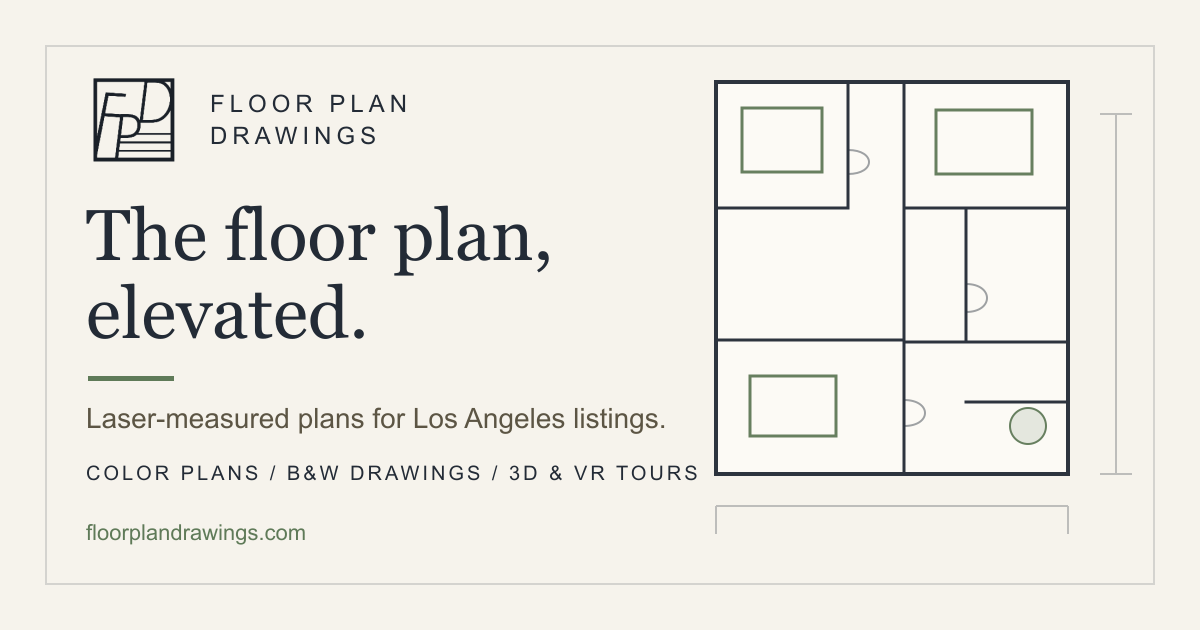
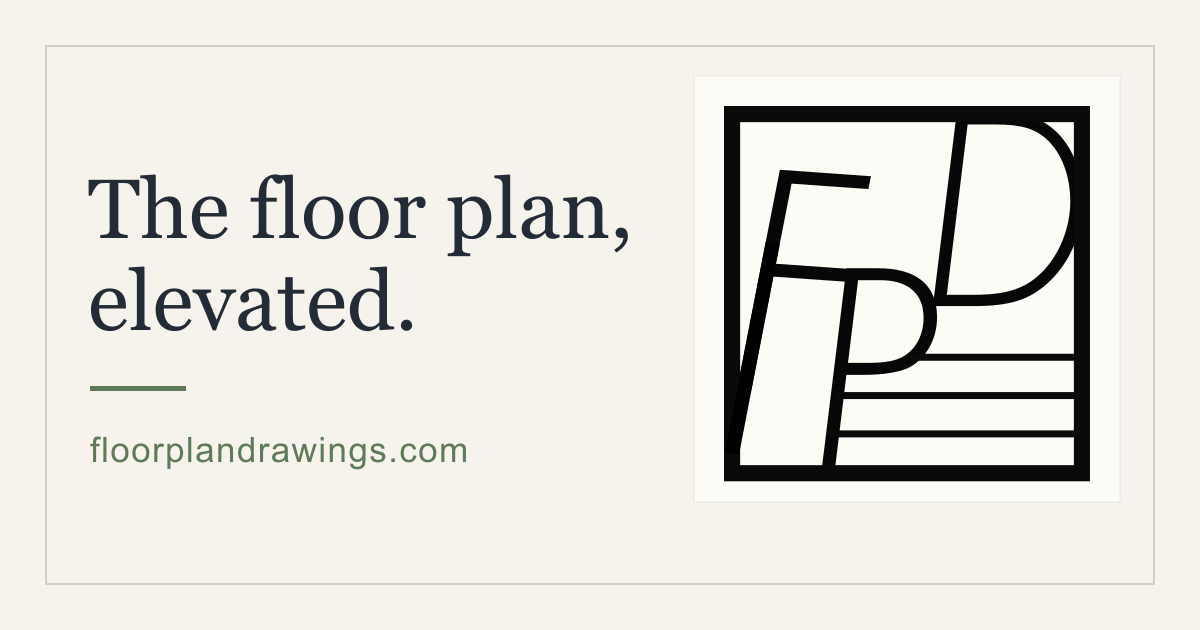
Simplify Open Graph card

diff --git a/index.html b/index.html
@@ -17,7 +17,7 @@
   <meta property="og:image:type" content="image/png">
   <meta property="og:image:width" content="1200">
   <meta property="og:image:height" content="630">
-  <meta property="og:image:alt" content="Floor Plan Drawings logo with a clean architectural floor plan graphic.">
+  <meta property="og:image:alt" content="Floor Plan Drawings logo with the headline The floor plan, elevated.">
   <meta name="twitter:card" content="summary_large_image">
   <meta name="twitter:title" content="Floor Plan Drawings">
   <meta name="twitter:description" content="Laser-measured floor plans, color plans, B&amp;W drawings, and 3D / VR tours for Los Angeles listings.">